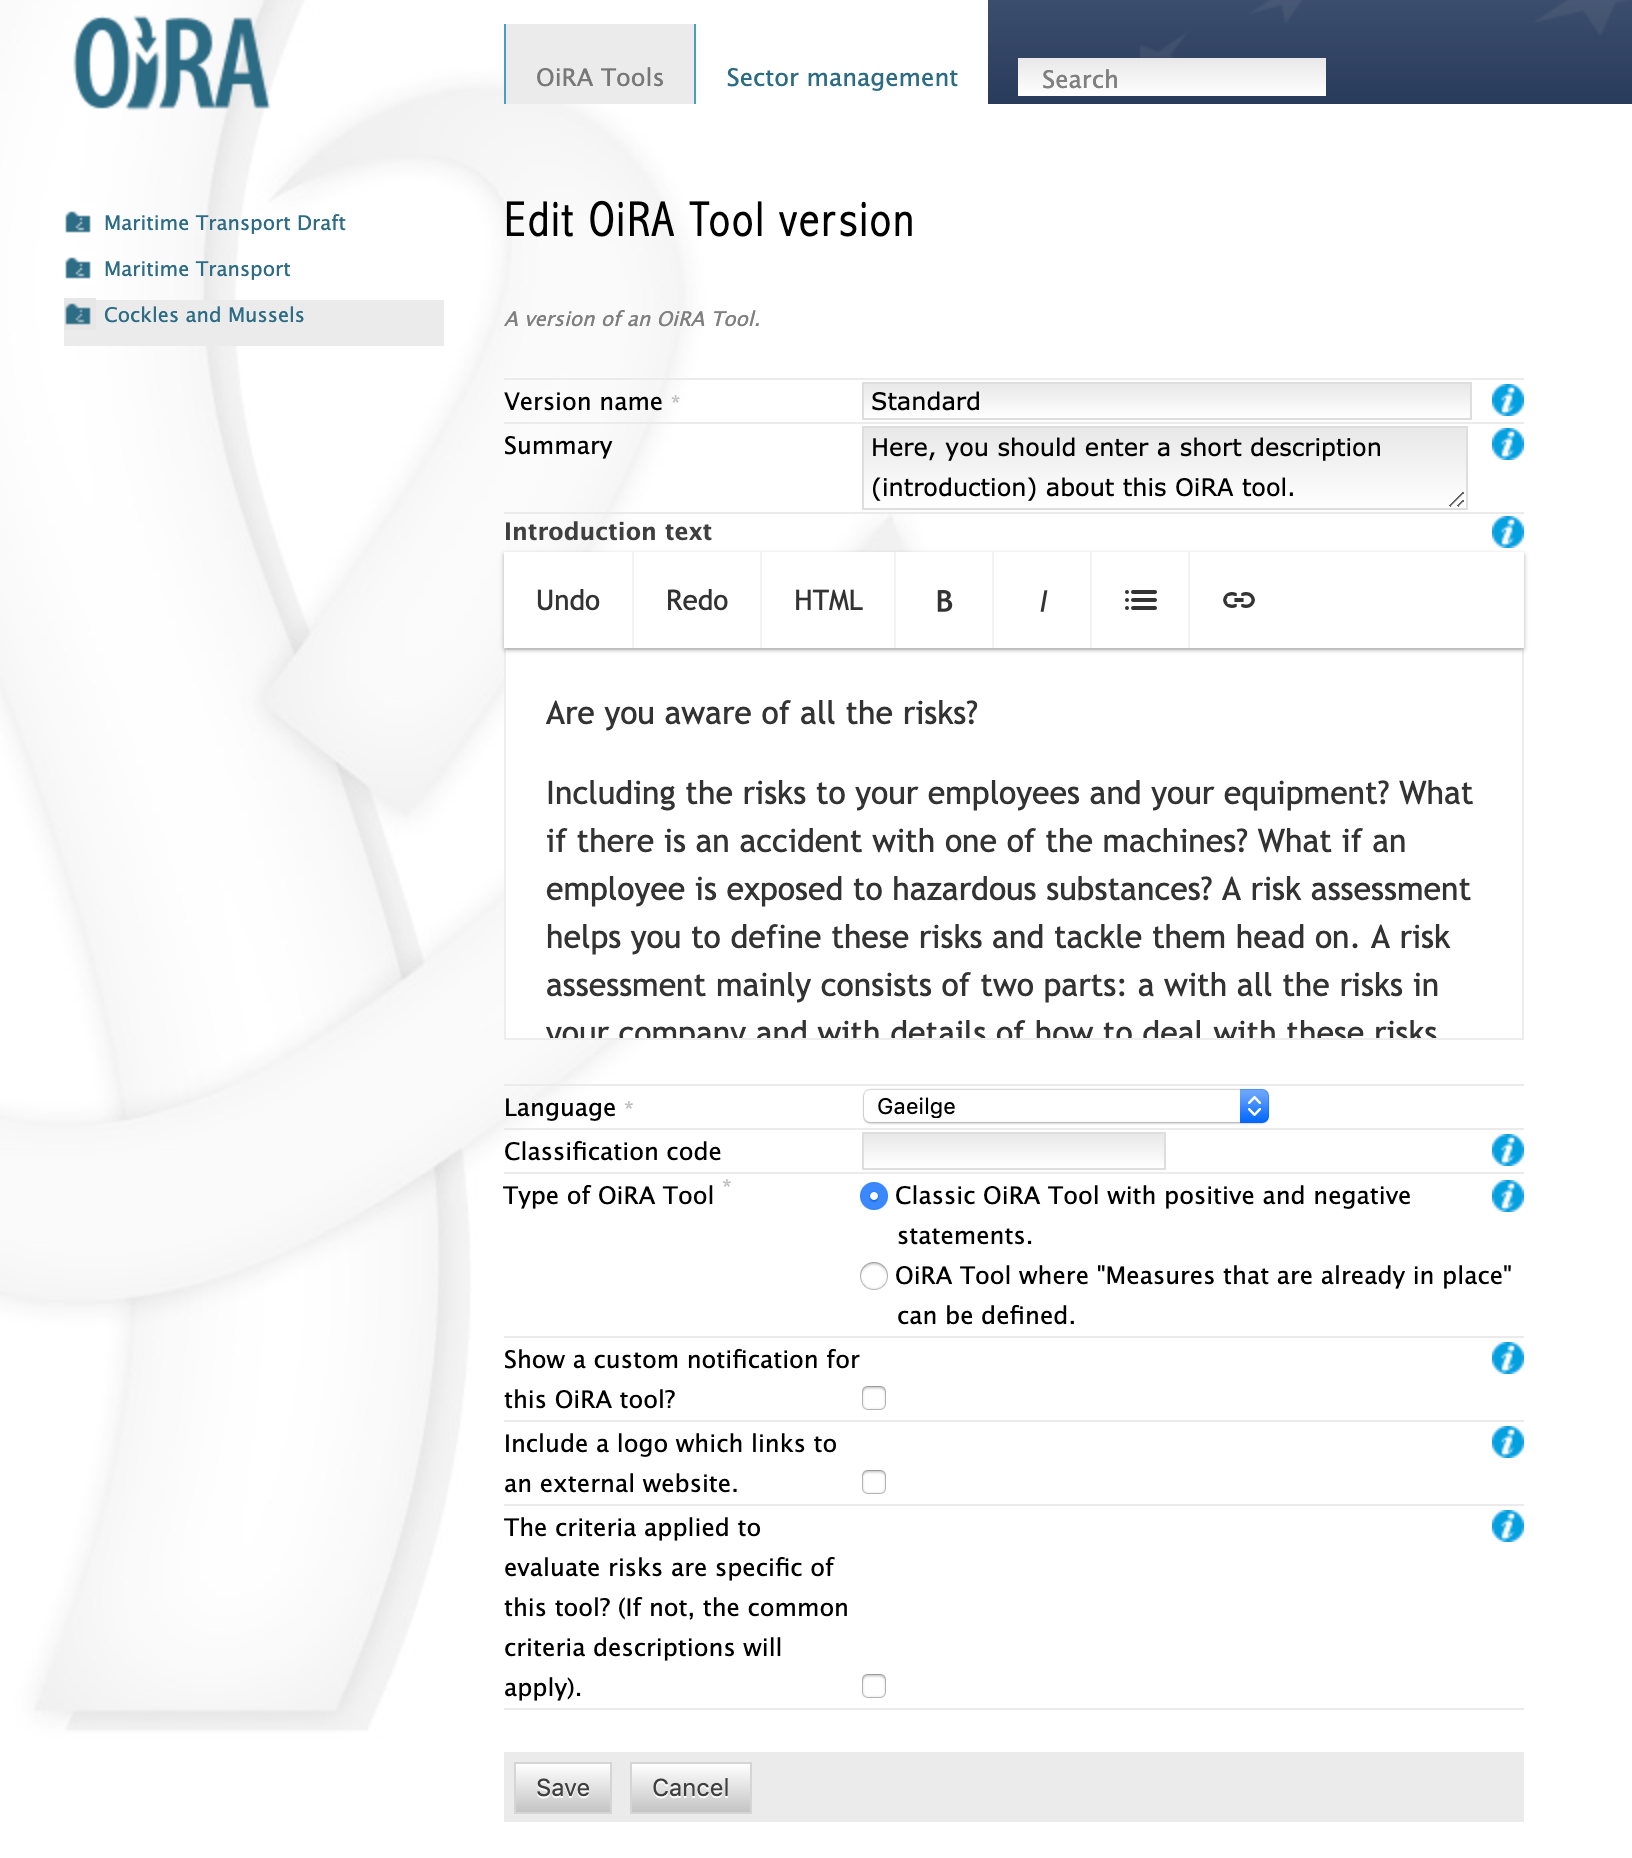
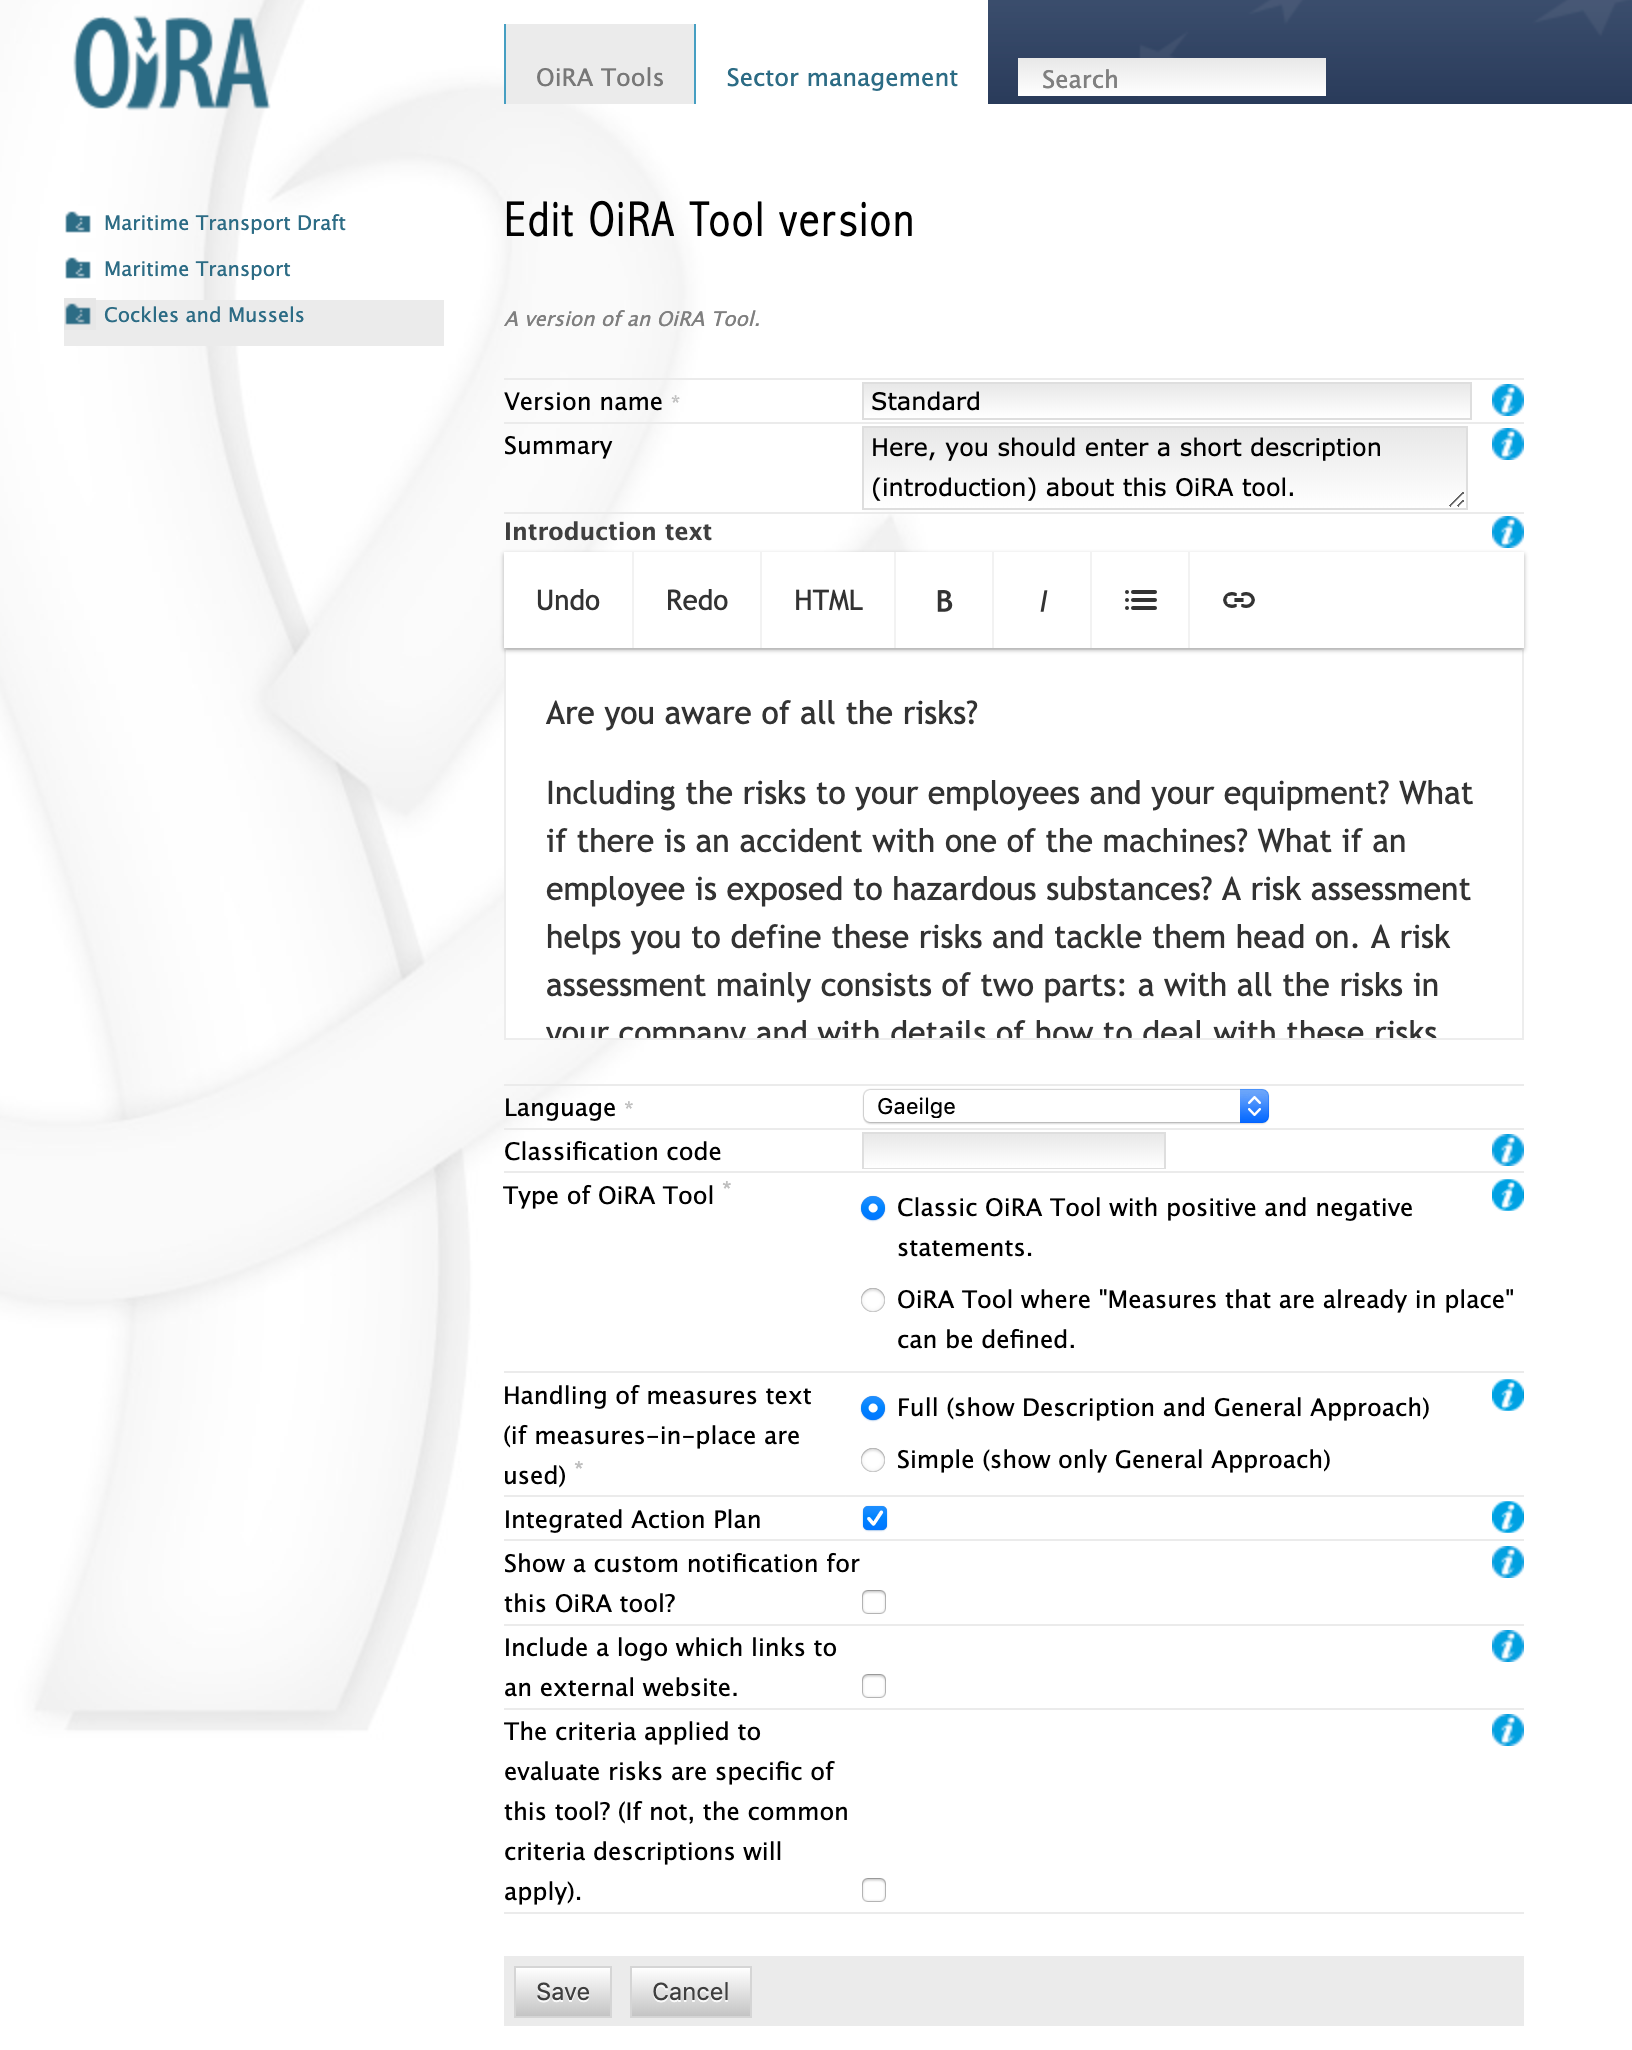
first version of new features in editor's guide SCR-908

diff --git a/docs/manuals/editor2.rst b/docs/manuals/editor2.rst
@@ -141,6 +141,104 @@ the button in the top right-hand corner: click on your login name and select 'Lo
 After logging out successfully, you will be brought back to the login
 screen where you will see the notification 'You have been logged out'.
 
+==================
+Managing a Country
+==================
+
+Countries cannot be created as they have been setup by the OiRA Administrators for you. But some of a country's settings will affect the behaviour of the OiRA tools created for it.
+
+As a **country manager** you are allowed to change the settings of your country.
+
+.. figure:: images/editor/country_list.png
+    :align: center
+    :alt: Sectors overview
+
+    *Sectors overview*
+
+
+To open your country's settings, select your country in the list of countries on the Sectors overview.
+
+.. figure:: images/editor/country_single_view.png
+    :align: center
+    :alt: Country view
+
+    *Country view*
+
+On the country's view page click the **Edit** link in the upper right corner of the screen to change the selected country's settings.
+
+.. figure:: images/editor/country_edit.png
+    :align: center
+    :alt: Country edit
+
+    *Country edit*
+
+The form contains a number of different fields: texts for information, metadata and a number of settings that allow specific modifications to how the related OiRA tools behaves.
+
+Text fields and metadata
+------------------------
+
+* **Title**:
+    The title of the country will be shown in the Sector overview below the country's flag. 
+    Please do not change this title without any important reason. 
+
+* **Open sections on risk page**:
+    Here you can choose, which information sections should be open by default on a risk identification page:
+
+    - Information
+    - Resources
+    - Comments
+
+    Sections not checked will be shown intially in collapsed mode, but the user can always open those sections with a click.
+
+* **Available reports**:
+    Choose here, which reports are offered to the user on the Report page. 
+    There are 4 different types of reports available:
+
+    - Full report (Word document):     
+        Word / Office Open XML (.docx) that can be edited after download. It provides all information and input entered throughout the risk assessment process. 
+        This report is helpful for your users to provide evidence of the risk assessment for supervisory authorities (e.g. the labour inspectorate).
+    
+    - Action plan (Excel spreadsheet): 
+        Excel / Office Open XML (.xlsx) that can be edited after download. It provides all information on all the measures you have chosen to implement. 
+        This report is useful for your users to actively follow up on the implementation of measures that they have chosen and to manage the problems/risks in their workplaces (specific tasks, expertise, responsibilities, deadlines).
+
+    - Overview of risks (PDF): 
+        PDF formatted report that cannot be edited after downloading it. It provides an overview of the risks identified. 
+        This report is useful for your users to get a quick overview of the status of risks in their workplaces, pass information to the people concerned and monitor whether risks/measures are properly dealt with.
+    
+    - Overview of measures (PDF): 
+        PDF formatted report that cannot be edited after downloading it. It provides a quick overview of the measures to be implemented. 
+        This report is useful for your users to get a quick overview of the status of measures they have decided to implement, pass information to the people concerned and monitor whether risks/measures are properly dealt with.
+
+
+* **Enable certificates**:
+    If this option is checked, your users will be able to obtain an official certificate of completion once they reach the threshold defined below.
+
+* **Certificate initial threshold (in percent)**
+    If "Enable certificates" is checked, add a number here. After a session completion rate is greater than this limit, the user will be informed about the possibility to earn a certificate. 
+    
+    E.g. if you put a 15 here, after 15% of the risk assessment has been filled in, the user will be shown an informational text on the status page. The text informs the user about earning a cerificate.
+
+.. figure:: images/editor/cert_initial_treshold.png
+    :align: center
+    :height: 350px
+    :alt: Status: initial treshold reached
+
+
+* **Certificate completion threshold (in percent)**
+    Add a number for the certificate's completion limit (in percent) here. After a session completion rate is greater than this limit the user will earn a certificate.
+    
+    E.g. if you put a 50 here, after 50% of the risk assessment has been fulfilled, the user will be shown another informational text on the status page. This text informs the user that he now earned the certificate. From now on a button is offert to view and print the certificate.
+
+.. figure:: images/editor/cert_complete_treshold.png
+    :align: center
+    :height: 350px
+    :alt: Status: completion treshold reached 
+
+* **Explanatory sentence**
+    The text entered here is shown to the user after reaching the initial threshold. You can use this to point to an external website that provides more information.
+
+
 
 ==========================
 Setting up a new OiRA tool
@@ -302,6 +400,23 @@ Fields that allow special behaviour
 
     For more details on this alternative tool type, see the chapter :ref:`OiRA tool with measures already in place <measures-in-place>`.
 
+* **Handling of measures text (if measures-in-place are used)**
+    This setting defines how the “Measures in place” options are displayed to the user. 
+
+    * Choose **Simple** if the texts for Description and General Approach are identical in your measures. 
+
+    * Choose **Full** if the texts in General Approach provide more details than the Description.
+
+    If you do not have any further informative text to display except the measure's description, the option **Simple** might be the better variant.
+
+    For more details on how the texts are displayed for both versions, see the chapter :ref:`OiRA tool with measures already in place <measures-in-place>`.
+
+* **Integrated Action Plan**
+    If selected, the option to plan measures will be offered directly on the **Identification** page. There will be no separate **Action Plan** step in the navigation.
+
+    You can smoothly change this option also for existing tools - the data already gathered by the users will not be lost.
+
+    For more details on how the action plan is integrated in the identification page, see the chapter :ref:`OiRA tool feature "integrated action plan" <integrated-action-plan>`.
 
 .. _custom-notification:
 
@@ -1509,6 +1624,66 @@ This will have the following effect in the OiRA application for the end-user:
     *OiRA client: the user has selected one pre-defined measure and written text for an additional custom measure.*
 
 
+**Handling of measures text**:
+
+If you are using the **Measures in place** type variant for your OiRA tool, you can choose between two versions to display the suggested measures:
+
+* **Full (show Description and General Approach)** 
+
+If you have additional descriptive text to each measure besides a single statement, you can choose this option to offer that extra information to your users.
+
+In this case, the Description :ref:`defined by the tool creator for this risk <measures-risk-level>` is shown next to the checkbox to explain the measure. When hovering that, the General approach text is displayed in a tooltip.
+
+.. figure:: images/editor/cms-measures-text-full-1.png
+    :align: center
+    :height: 250px
+    :alt: OiRA client: full display of measure in place with tooltip.
+
+    *OiRA client: full display of measure in place with tooltip.* 
+
+After choosing the related measure by ticking it, the General approach text is displayed below the measure's Description.
+
+.. figure:: images/editor/cms-measures-text-full-2.png
+    :align: center
+    :height: 300px
+    :alt: OiRA client: full display of measure in place when selected by the user.
+
+    *OiRA client: full display of measure in place when selected by the user.* 
+
+
+* **Simple (show only General Approach)**
+
+If you do not have that much information about a measure, and might have the same text used for Description and General approach, you might want to use the **simple** setting here.
+
+With this setting, there will be no tooltip shown but only the Description next to the checkbox. Also when the checkbox is active, no additional text is displayed.
+
+
+.. figure:: images/editor/cms-measures-text-simple.png
+    :align: center
+    :height: 270px
+    :alt: OiRA client: simple display of measure in place.
+
+    *OiRA client: simple display of measure in place.* 
+
+For both settings, the Description is displayed in the list of additional measures. This list is offered to the user if he chooses that more measures are required.
+
+.. figure:: images/editor/cms-measures-text-display-1.png
+    :align: center
+    :height: 310px
+    :alt: OiRA client: list of additional measures to add.
+
+    *OiRA client: list of additional measures to add.* 
+
+When adding an additional measure, both - Description and General approach are used to explain the measure. 
+
+.. figure:: images/editor/cms-measures-text-display-2.png
+    :align: center
+    :height: 320px
+    :alt: OiRA client: additional measure added.
+
+    *OiRA client: additional measure added.* 
+
+
 In the Action Plan, all measures that have already been implemented are shown for information. Since there is no action required for them, they cannot be edited or scheduled. But new measures (to be implemented in the future) can still be added just as with a classic OiRA tool.
 
 .. figure:: images/editor/cms-measures-in-place-action-plan.png
@@ -1517,6 +1692,36 @@ In the Action Plan, all measures that have already been implemented are shown fo
     :alt: OiRA client: the action plan page for a risk showing two measures that are already in place above the form to add new measures.
 
     *OiRA client: the action plan page for a risk showing two measures that are already in place above the form to add new measures.*
+
+.. _integrated-action-plan:
+
+===================================================
+OiRA tool feature "integrated action plan"
+===================================================
+
+If the setting "Integrated Action Plan" is set for a tool, the action plan is included in the risk identification and evaluation step. 
+
+For the standard OiRA tool without the integrated action plan, there is a single step "Action plan" following the step "Identification + Evaluation" in the main menu of the tool:
+
+  * Preparation
+  * Involvement
+  * Identification + Evaluation
+  * Action plan
+  * Report
+  * Status
+
+
+For an OiRA tool with an integrated action plan, these two steps are unified to the step "Assessment":
+
+  * Preparation
+  * Involvement
+  * Assessment
+  * Report
+  * Status
+
+If the integrated action plan feature is used for a tool, the the elements described under ‘Action plan’ will appear under the identification and evaluation of each risk.
+
+**Important**: the feature "integrated action plan" can be turned on or off for existing tools. Even if data was collected as your users are already working on that tool, the data does not get lost. It is only displayed in a different way regarding the selected option.
 
 .. _reworking-oira-tool:
 
@@ -1544,6 +1749,8 @@ This kind of change is also not critical.
 *Exception*: the change in wording changes the meaning of a risk statement or similar in such a way that a previous risk assessment is no longer valid.
 
 For such non-critical changes, it is safe to do the changes in place, so that the URL of the OiRA tool will stay the same. More details below under “Option 1”.
+
+Also - as described under :ref:`OiRA tool feature "integrated action plan" <integrated-action-plan>`. the feature "integrated action plan" can be turned on or off for existing tools. Even if data was collected as your users are already working on that tool, the data does not get lost.
 
 
 --------------------------------------
